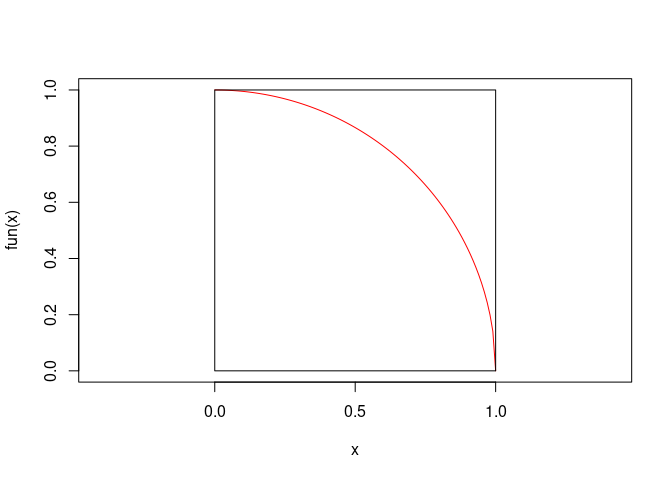
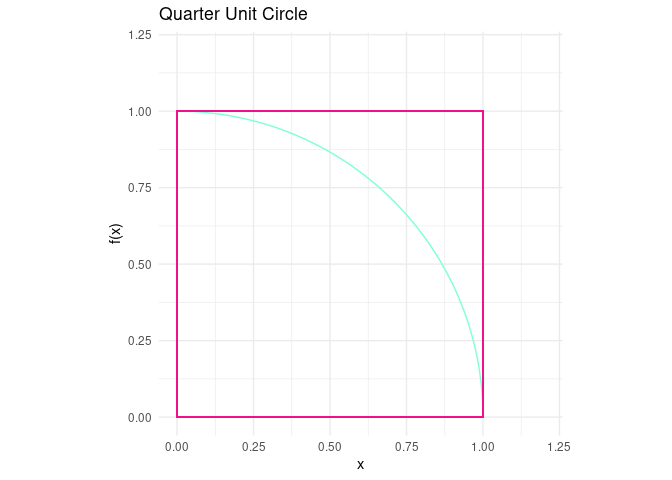
fixed Latex error

diff --git a/Pi_estimate_in_R.md b/Pi_estimate_in_R.md
@@ -10,24 +10,31 @@ integration. I’ll do this through use of a semi unit circle function:
 $f(x) = (1-x^2)^\\frac{1}{2}$
 
 ``` r
+#install.packages("latex2exp")
+library(latex2exp)
 library(ggplot2)
-x = seq(-1, 1, .01)
+
+x = seq(-1, 1, .0001)
 fun <- function(x) {(1 - x^2)^.5}
 y = fun(x)
 
 half_circle = data.frame(x, y)
 
-p <- ggplot() +
- geom_function(fun = fun, color = "aquamarine") +
- xlim(c(-1.2,1.2)) +
- ylim(c(0, 1.2)) +
- theme_minimal() +
- coord_fixed()
+p <- ggplot(half_circle, aes(x = x, y= y)) +
+  geom_line(color = "aquamarine") +
+  theme_minimal() +
+  coord_fixed() +
+  labs(y = "f(x)") 
   
-p
+p + 
+  xlim(c(-1.2,1.2)) +
+  ylim(c(0, 1.2))+
+  annotate("text", x = .95, y= 1.1, label = TeX("$f(x) = (1-x^2)^{1/2}$"), parse = TRUE) +
+  labs(title = "Semi Unit Circle")
 ```
 
-    ## Warning: Removed 18 row(s) containing missing values (geom_path).
+    ## Warning in is.na(x): is.na() applied to non-(list or vector) of type
+    ## 'expression'
 
 ![](Pi_estimate_in_R_files/figure-gfm/unnamed-chunk-1-1.png)<!-- -->
 
@@ -37,11 +44,20 @@ To simplify the simulation, I’ll set the x axis limits from 0 to 1. This
 gives a quarter of the unit circle. Around it, I’ll plot the unit square
 
 ``` r
-plot.new()
+x_coords = c(0, 1, 0, 1)
+y_coords = c(0, 0, 1, 1)
+unit_square = data.frame(x_coords, y_coords)
 
-curve(fun(x),asp = 1, col = "red")
-rect( 0, 0, 1, 1)
+quarter_p = p + 
+  xlim(c(0,1.2)) +
+  ylim(c(0, 1.2)) +
+  geom_rect(aes(xmin = 0, xmax = 1, ymin = 0, ymax = 1), fill = NA, col = "deeppink2") +
+  labs(title = "Quarter Unit Circle")
+
+quarter_p
 ```
+
+    ## Warning: Removed 10000 row(s) containing missing values (geom_path).
 
 ![](Pi_estimate_in_R_files/figure-gfm/unnamed-chunk-2-1.png)<!-- -->
 
@@ -54,21 +70,48 @@ probability of producing values from 0 to 1. So, each bivariate sample
 will be a point within the bounds of the unit square, see below:
 
 ``` r
-plot.new()
-# bivariate sampling from the standard uniform distrubution
-x <- runif(100, 0, 1)
-y <- runif(100, 0, 1)
-
-curve(fun(x), asp = 1, col = "red")
-points(x, y)
-rect( 0, 0, 1, 1)
+library(dplyr)
 ```
+
+    ## 
+    ## Attaching package: 'dplyr'
+
+    ## The following objects are masked from 'package:stats':
+    ## 
+    ##     filter, lag
+
+    ## The following objects are masked from 'package:base':
+    ## 
+    ##     intersect, setdiff, setequal, union
+
+``` r
+# bivariate sampling from the standard uniform distrubution
+x_sample <- runif(100, 0, 1)
+y_sample <- runif(100, 0, 1)
+
+bivariate_df <- data.frame(x_sample, y_sample)
+bivariate_df <- bivariate_df %>%
+  mutate(in_circle = sqrt(x_sample^2 + y_sample^2) <= 1)
+
+quarter_p + 
+  geom_point(data = bivariate_df, aes(x_sample , y_sample, col = in_circle)) 
+```
+
+    ## Warning: Removed 10000 row(s) containing missing values (geom_path).
 
 ![](Pi_estimate_in_R_files/figure-gfm/unnamed-chunk-3-1.png)<!-- -->
 
+The above plot shows 100 randomly sampled points. If we count the number
+of (x, y) pairs the satisfy $\\sqrt{x^2 + y^2} \\ \\leq \\ 1$ (blue
+dots) and divide by the total number of points sampled (100), we will
+get the proportion of points that fell within the quarter unit circle.
+this should approximate $\\frac{\\pi}{4}$
+
 ## Monte Carlo simulation
 
-Now I’ll run the Monte Carlo simulation
+I’ll now repeat this process with 1 million points and plot distrubution
+of points that satisfy $\\sqrt{x^2 + y^2} \\ \\leq \\ 1$ The shape of
+the histogram should approximate the are under the quarter unit circle
 
 ``` r
 # Makes a list of 10 lists that will each contain 2K  newly generated points over 
@@ -85,14 +128,14 @@ for (itr in 1:50)
 {
   for (idx in 1:10)
   {
-    while (length(list_of_list[[idx]]) < 200)
+    while (length(list_of_list[[idx]]) < 2000)
       {
         x1 = runif(1, 0, 1)
         y1 = runif(1, 0, 1)
         radicand = x1^2 + y1^2
           if (sqrt(radicand) <= 1)
           {
-            list_of_list[[idx]] <- append(list_of_list[[idx]], x1)
+            list_of_list[[idx]] <- append(list_of_list[[idx]], y1)
             radicand = NULL
           }
         num_attempts = num_attempts +1
@@ -106,7 +149,42 @@ for (itr in 1:50)
 
 
 master_list <- unlist(master_list)
-hist(master_list)
+master_list <- data.frame(master_list)
+
+ggplot(master_list, aes(x = master_list, fill = cut(master_list,100))) +
+  geom_histogram(show.legend = FALSE, binwidth = 0.01,) +
+  theme_minimal() +
+  xlim(0,1) +
+  scale_fill_discrete(h = c(180, 360), c = 150, l = 80)
 ```
 
+    ## Warning: Removed 200 rows containing missing values (geom_bar).
+
 ![](Pi_estimate_in_R_files/figure-gfm/unnamed-chunk-4-1.png)<!-- -->
+
+Now 1,000,000 divided by the total number of points generated will give
+us an approximation of the area under the Quarter unit circle. When this
+number is multiplied by 4 we get an estimation of pi
+
+``` r
+prop_in_circle = 1000000 / num_attempts
+MC_pi <- prop_in_circle * 4
+MC_pi
+```
+
+    ## [1] 3.141942
+
+## Numeric estimation of pi
+
+For a numerical estimate of pi, we simply integrate under the Quarter
+unit circle function. Below I’ll show
+$\\pi \\approx\\int\_0^1 \\left(1-x^2\\right)^{\\frac{1}{2}} dx \\ \\ \* \\ 4$
+
+``` r
+integrand = function(x) {(1-x^2)^.5}
+quarter_area <- 0.7853983
+pi_est <- quarter_area * 4
+pi_est
+```
+
+    ## [1] 3.141593
